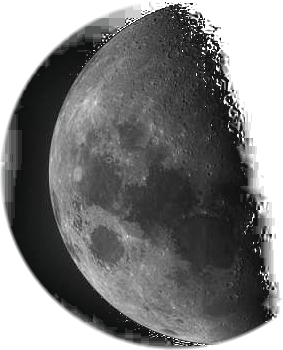
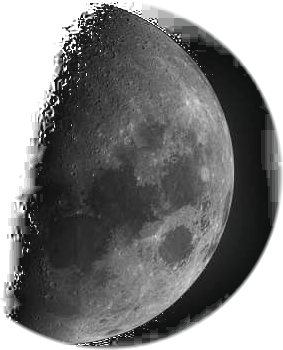
fix: invert moon horizontally so lit surface faces left toward experience cards

diff --git a/index.html b/index.html
@@ -8,7 +8,7 @@
   <link rel="preconnect" href="https://fonts.googleapis.com">
   <link rel="preconnect" href="https://fonts.gstatic.com" crossorigin>
   <link href="https://fonts.googleapis.com/css2?family=Space+Grotesk:wght@300;400;500;600;700&family=Inter:wght@300;400;500;600&family=Space+Mono:ital,wght@0,400;0,700&display=swap" rel="stylesheet">
-  <link rel="stylesheet" href="style.css?v=5.0">
+  <link rel="stylesheet" href="style.css?v=7.0">
 </head>
 <body>
 
@@ -172,8 +172,8 @@
     <!-- Atmospheric Realistic Moon emerging from right edge -->
     <div class="experience-moon" aria-hidden="true" data-parallax="0.03">
       <picture>
-        <source srcset="assets/experience_moon.webp" type="image/webp">
-        <img src="assets/experience_moon.png" alt="" class="moon-img" draggable="false" loading="lazy">
+        <source srcset="assets/experience_moon.webp?v=7.0" type="image/webp">
+        <img src="assets/experience_moon.png?v=7.0" alt="" class="moon-img" draggable="false" loading="lazy">
       </picture>
     </div>
 
@@ -546,6 +546,6 @@
     </div>
   </footer>
 
-  <script src="script.js?v=5.0"></script>
+  <script src="script.js?v=7.0"></script>
 </body>
 </html>
